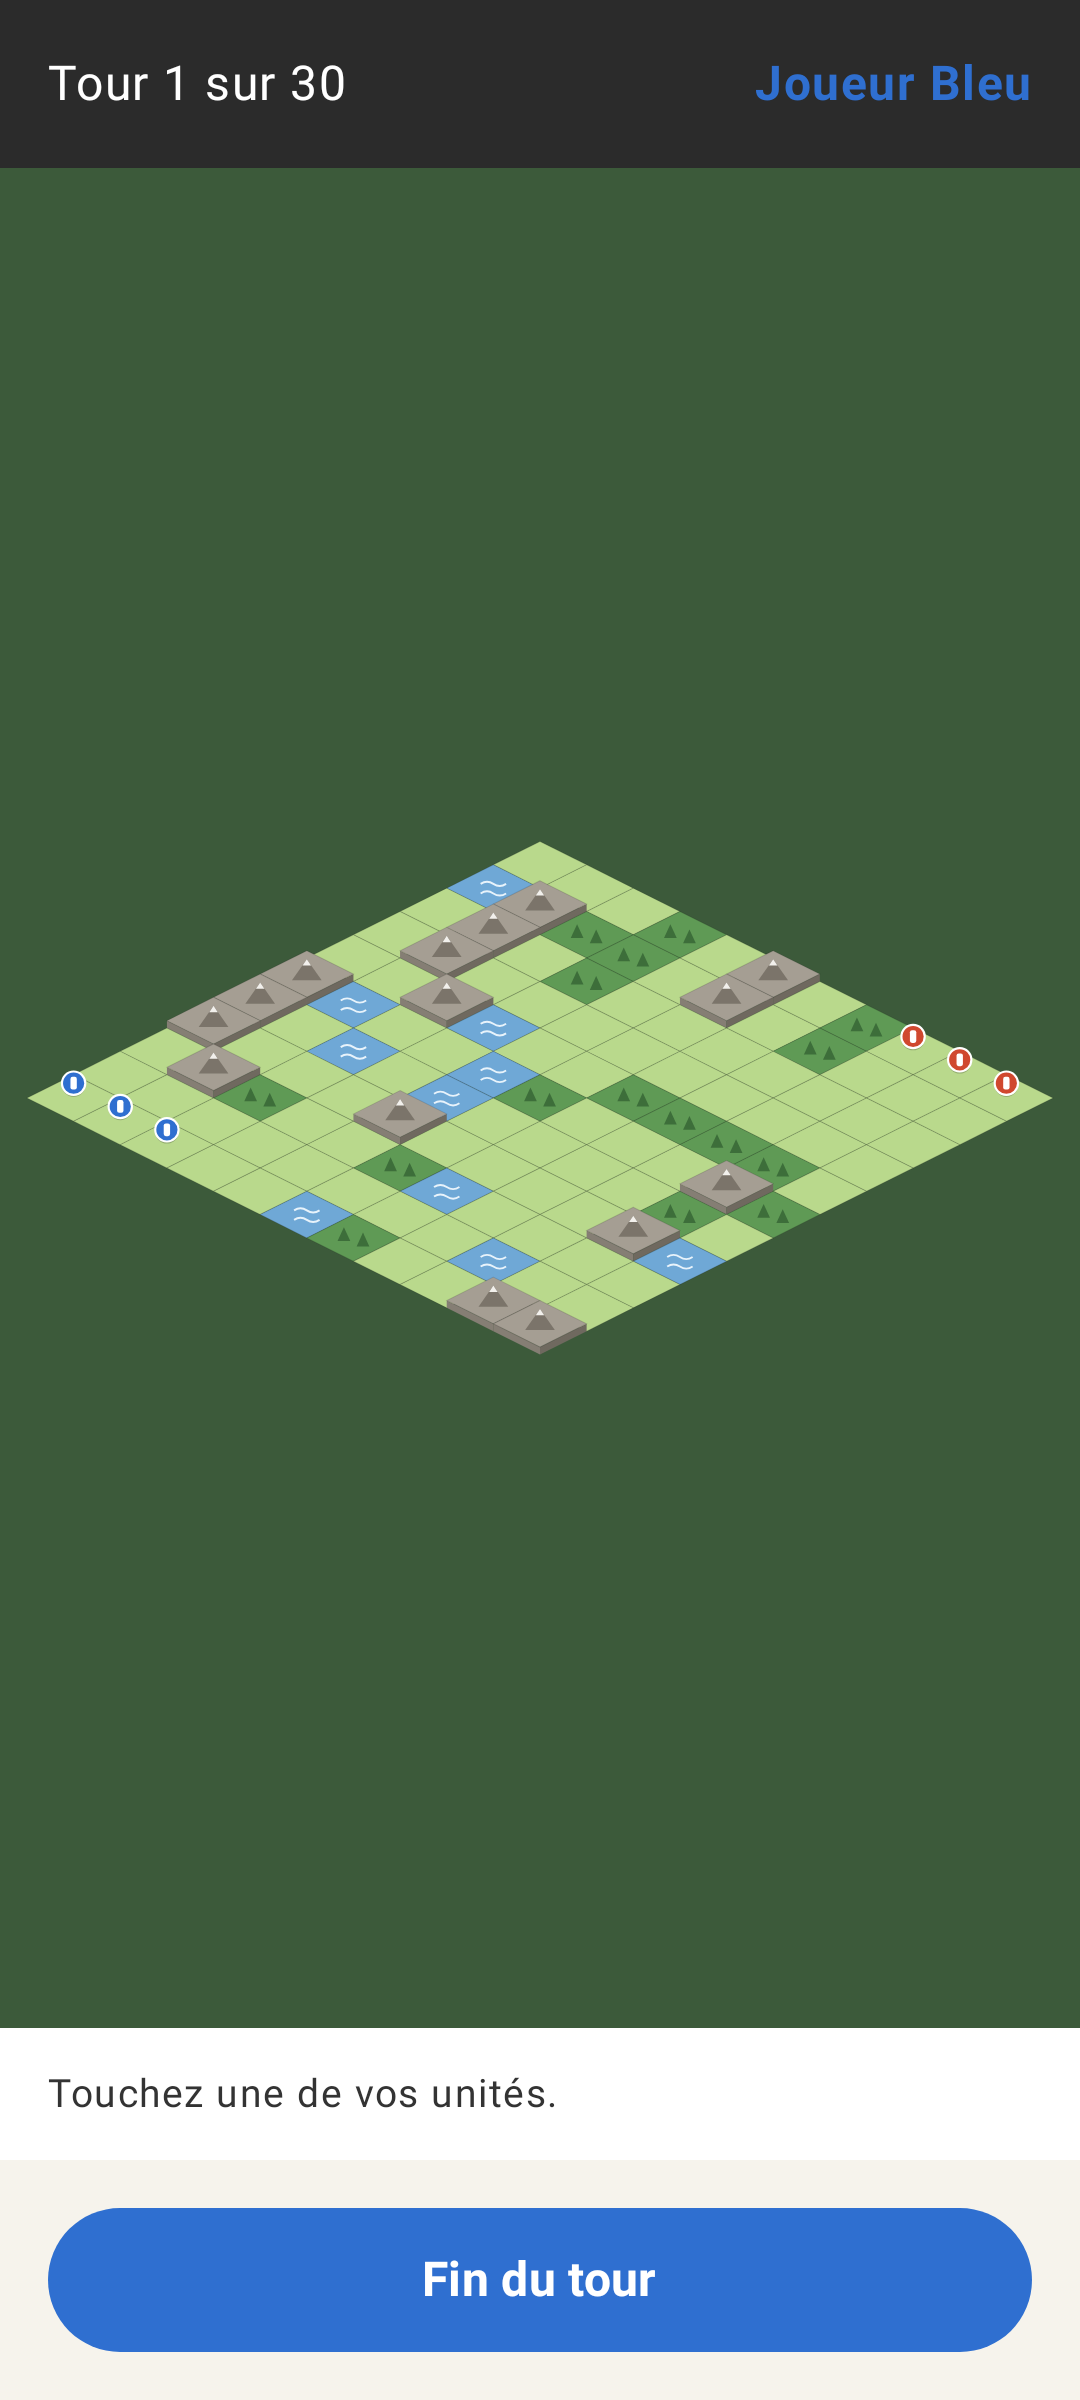
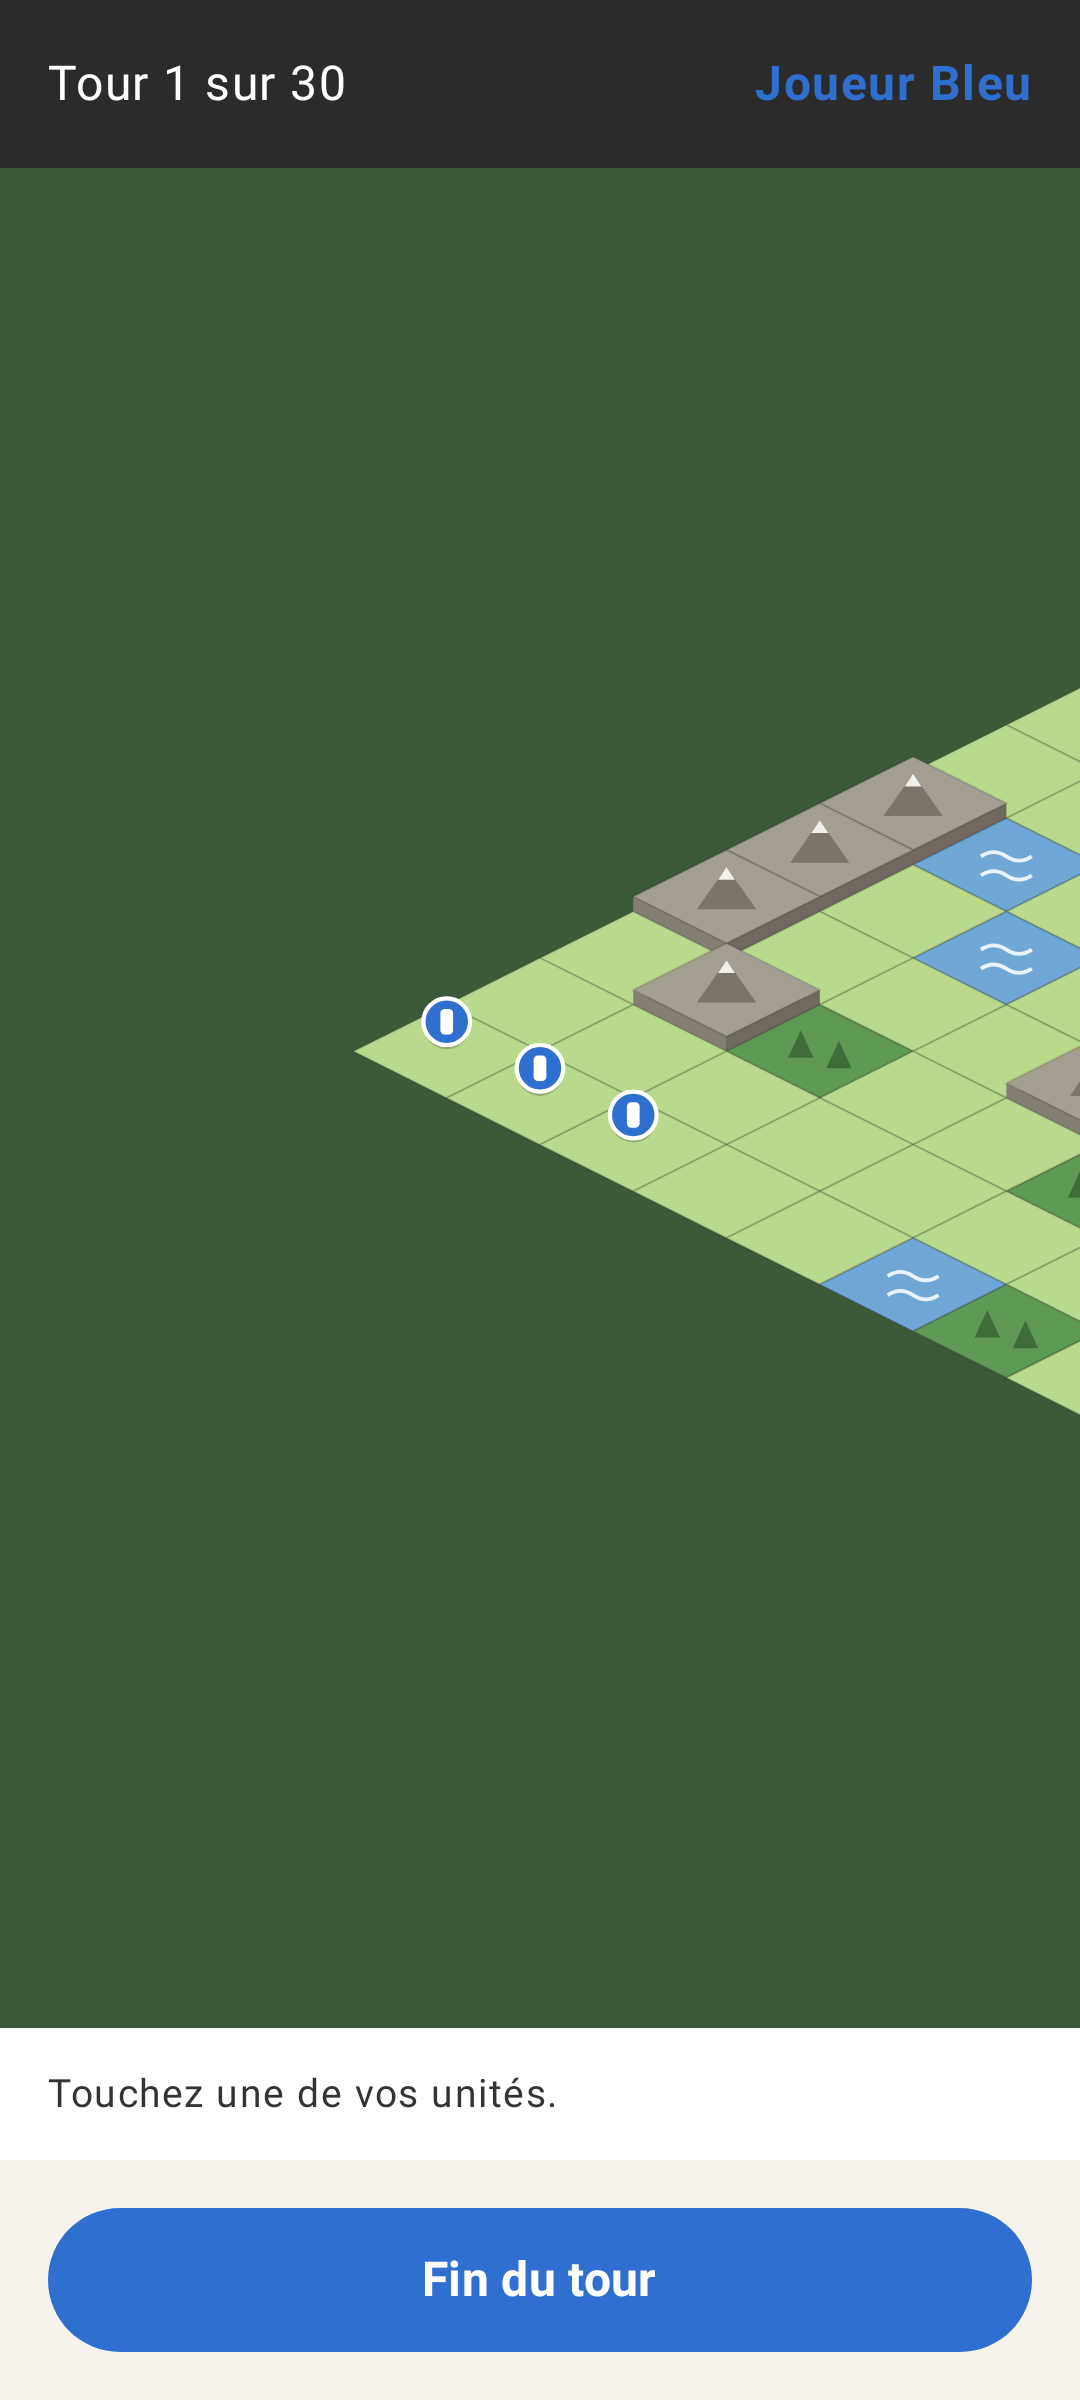
S1 : cadrage au lancement zoomé sur les unités du joueur qui commence (D-20)
Claude-Session: https://claude.ai/code/session_01EL3qoSH2aPunpMotVA9fo3

Changed region(s): [[0.0306, 0.2812, 1.0, 0.5938]]

diff --git a/app/src/main/kotlin/fr/jeu4x/app/plateau/EcranPartie.kt b/app/src/main/kotlin/fr/jeu4x/app/plateau/EcranPartie.kt
@@ -17,6 +17,7 @@ import androidx.compose.material3.Button
 import androidx.compose.material3.ButtonDefaults
 import androidx.compose.material3.Text
 import androidx.compose.runtime.Composable
+import androidx.compose.runtime.LaunchedEffect
 import androidx.compose.runtime.getValue
 import androidx.compose.runtime.mutableFloatStateOf
 import androidx.compose.runtime.mutableStateOf
@@ -35,6 +36,7 @@ import androidx.compose.ui.layout.onSizeChanged
 import androidx.compose.ui.platform.testTag
 import androidx.compose.ui.res.stringResource
 import androidx.compose.ui.text.font.FontWeight
+import androidx.compose.ui.unit.IntSize
 import androidx.compose.ui.unit.dp
 import androidx.compose.ui.unit.sp
 import fr.jeu4x.app.R
@@ -68,7 +70,7 @@ private object Teintes {
 fun couleurJoueur(joueur: Int) = if (joueur == 0) Teintes.bleu else Teintes.rouge
 
 /** État affiché : la partie, l'unité choisie et ses cases atteignables. */
-data class Affichage(val etat: Etat, val choisie: Int? = null, val portee: Set<Int> = emptySet())
+data class Affichage(val etat: Etat, val choisie: Int? = null, val portee: Set<Int> = emptySet(), val numeroPartie: Int = 0)
 
 @Composable
 fun EcranPartie(
@@ -126,24 +128,25 @@ fun EcranPartie(
 private fun Plateau(affichage: Affichage, surToucherCase: (Int) -> Unit) {
     val etat = affichage.etat
     val perspective = remember(etat.taille) { Perspective(etat.taille, demiLargeur = 44f) }
-    var echelle by remember { mutableFloatStateOf(0f) } // 0 : pas encore cadré
-    var decalage by remember { mutableStateOf(Offset.Zero) }
+    // Remis à zéro à chaque nouvelle partie : le cadrage de lancement se refait.
+    var echelle by remember(affichage.numeroPartie) { mutableFloatStateOf(0f) } // 0 : pas encore cadré
+    var decalage by remember(affichage.numeroPartie) { mutableStateOf(Offset.Zero) }
+    var tailleVue by remember { mutableStateOf(IntSize.Zero) }
+
+    // Lancement d'une partie (D-20) : vue zoomée sur les unités du joueur qui commence.
+    LaunchedEffect(affichage.numeroPartie, tailleVue) {
+        if (echelle == 0f && tailleVue.width > 0 && tailleVue.height > 0) {
+            val miennes = etat.unites.filter { it.joueur == etat.joueurCourant }
+                .map { etat.colonne(it.case) to etat.rangee(it.case) }
+            val (e, dx, dy) = perspective.cadrageSur(miennes, tailleVue.width.toFloat(), tailleVue.height.toFloat())
+            echelle = e
+            decalage = Offset(dx, dy)
+        }
+    }
 
     Canvas(
         Modifier.fillMaxSize().background(Teintes.fond).testTag("plateau")
-            .onSizeChanged { taille ->
-                // Premier cadrage : tout le plateau tient dans la vue, centré.
-                if (echelle == 0f && taille.width > 0 && taille.height > 0) {
-                    val l = perspective.limites()
-                    val largeur = l[2] - l[0]
-                    val hauteur = l[3] - l[1]
-                    echelle = minOf(taille.width / largeur, taille.height / hauteur) * 0.95f
-                    decalage = Offset(
-                        taille.width / 2f - (l[0] + largeur / 2f) * echelle,
-                        taille.height / 2f - (l[1] + hauteur / 2f) * echelle,
-                    )
-                }
-            }
+            .onSizeChanged { tailleVue = it }
             .pointerInput(perspective) {
                 detectTransformGestures { centroide, deplacement, zoom, _ ->
                     val nouvelle = (echelle * zoom).coerceIn(0.4f, 4f)

diff --git a/app/src/main/kotlin/fr/jeu4x/app/plateau/PartieViewModel.kt b/app/src/main/kotlin/fr/jeu4x/app/plateau/PartieViewModel.kt
@@ -12,6 +12,7 @@ import fr.jeu4x.app.moteur.Partie
  */
 class PartieViewModel(private val nouvelleGraine: () -> Long = { System.nanoTime() }) : ViewModel() {
     private var partie = Partie(nouvelleGraine())
+    private var numero = 0
     var affichage by mutableStateOf(Affichage(partie.etat()))
         private set
 
@@ -23,26 +24,27 @@ class PartieViewModel(private val nouvelleGraine: () -> Long = { System.nanoTime
         if (choisie != null && case in a.portee) {
             if (partie.deplacer(choisie, case)) {
                 val apres = partie.etat()
-                affichage = Affichage(apres, choisie = case, portee = partie.atteignables(case))
+                affichage = Affichage(apres, choisie = case, portee = partie.atteignables(case), numeroPartie = numero)
             }
             return
         }
         val u = etat.uniteSur(case)
         affichage = if (u != null && u.joueur == etat.joueurCourant) {
-            Affichage(etat, choisie = case, portee = partie.atteignables(case))
+            Affichage(etat, choisie = case, portee = partie.atteignables(case), numeroPartie = numero)
         } else {
-            Affichage(etat)
+            Affichage(etat, numeroPartie = numero)
         }
     }
 
     fun finDuTour() {
-        if (partie.finDuTour()) affichage = Affichage(partie.etat())
+        if (partie.finDuTour()) affichage = Affichage(partie.etat(), numeroPartie = numero)
     }
 
     fun nouvellePartie() {
         partie.fermer()
         partie = Partie(nouvelleGraine())
-        affichage = Affichage(partie.etat())
+        numero++
+        affichage = Affichage(partie.etat(), numeroPartie = numero)
     }
 
     override fun onCleared() {

diff --git a/app/src/main/kotlin/fr/jeu4x/app/plateau/Perspective.kt b/app/src/main/kotlin/fr/jeu4x/app/plateau/Perspective.kt
@@ -46,4 +46,23 @@ class Perspective(val taille: Int, val demiLargeur: Float, val demiHauteur: Floa
         (taille - 1) * demiLargeur + demiLargeur,
         2 * (taille - 1) * demiHauteur + 2 * demiHauteur,
     )
+
+    /** Échelle à laquelle tout le plateau tient dans une vue de `largeur` × `hauteur`. */
+    fun echelleEnsemble(largeur: Float, hauteur: Float): Float {
+        val l = limites()
+        return minOf(largeur / (l[2] - l[0]), hauteur / (l[3] - l[1])) * 0.95f
+    }
+
+    /**
+     * Cadrage au lancement d'une partie (D-20) : cases deux fois plus grosses que la vue
+     * d'ensemble, centrées sur les cases données (les unités du joueur qui commence).
+     * Rend l'échelle et le décalage (x, y) à appliquer au repère plateau.
+     */
+    fun cadrageSur(cases: List<Pair<Int, Int>>, largeur: Float, hauteur: Float, grossissement: Float = 2f): Triple<Float, Float, Float> {
+        val echelle = echelleEnsemble(largeur, hauteur) * grossissement
+        val centres = if (cases.isEmpty()) listOf(centre((taille - 1) / 2, (taille - 1) / 2)) else cases.map { (x, y) -> centre(x, y) }
+        val cx = centres.map { it.first }.average().toFloat()
+        val cy = centres.map { it.second }.average().toFloat()
+        return Triple(echelle, largeur / 2f - cx * echelle, hauteur / 2f - cy * echelle)
+    }
 }

diff --git a/app/src/test/kotlin/fr/jeu4x/app/plateau/PerspectiveTest.kt b/app/src/test/kotlin/fr/jeu4x/app/plateau/PerspectiveTest.kt
@@ -39,3 +39,18 @@ class PerspectiveTest {
         assertEquals(profondeurs.sorted(), profondeurs)
     }
 }
+
+class CadrageTest {
+    private val p = Perspective(taille = 11, demiLargeur = 44f)
+
+    @Test
+    fun `le lancement grossit deux fois et centre les unites`() {
+        val unites = listOf(0 to 0, 1 to 0, 2 to 0)
+        val (e, dx, dy) = p.cadrageSur(unites, 1080f, 1700f)
+        assertEquals(p.echelleEnsemble(1080f, 1700f) * 2f, e, 1e-4f)
+        // Le centre moyen des unités tombe au milieu de la vue.
+        val (cx, cy) = p.centre(1, 0)
+        assertEquals(540f, cx * e + dx, 1f)
+        assertEquals(850f, cy * e + dy, 1f)
+    }
+}

diff --git a/app/src/test/kotlin/fr/jeu4x/app/capture/CapturesTest.kt b/app/src/test/kotlin/fr/jeu4x/app/capture/CapturesTest.kt
@@ -43,6 +43,10 @@ class CapturesTest {
         vm.toucherCase(vm.affichage.etat.unites.first { it.joueur == 0 }.case)
         compose.waitForIdle()
         capturer("plateau-choix")
+        // Tour du joueur Rouge : la vue ne bouge pas (D-20 ne dit rien du changement de tour).
+        vm.finDuTour()
+        compose.waitForIdle()
+        capturer("plateau-tour-rouge")
     }
 
     private fun capturer(nom: String) {

diff --git a/docs/environnement/JOURNAL.md b/docs/environnement/JOURNAL.md
@@ -2,6 +2,18 @@
 
 > Entrée la plus récente en haut. On ne modifie ni ne supprime une entrée passée.
 
+## 2026-11-27 · Cadrage au lancement zoomé sur ses unités (D-20)
+
+- **Auteur** : Claude, session S1
+- **Branche et commit** : `s1-environnement`
+- **Objectif** : réponse de l'utilisateur sur le cadrage : b), zoomé sur ses unités (D-20).
+- **Réalisé** : `Perspective.cadrageSur` (échelle = 2 × la vue d'ensemble, centre = moyenne des unités du joueur qui commence) ; appliqué au lancement et à chaque « Nouvelle partie » (`Affichage.numeroPartie`). Changement de tour inchangé, comme demandé. Captures : `docs/environnement/captures/plateau.png` (lancement), `plateau-choix.png`, `plateau-tour-rouge.png`.
+- **Décisions** : aucune nouvelle.
+- **Vérifications** : `:app:testDebugUnitTest` 30 verts (dont `CadrageTest`) ; captures regardées : au lancement les trois unités bleues sont au centre, cases deux fois plus grandes.
+- **Non vérifié sur téléphone** : confort du zoom de départ, pincer pour dézoomer.
+- **Problèmes et dette** : au tour du Rouge, la vue reste sur les unités bleues ; les unités rouges sont hors de l'écran (en haut à droite) : il doit faire glisser la vue pour les trouver. Solution proposée, non codée : au début de chaque tour, faire glisser la vue en douceur vers les unités du joueur dont c'est le tour, sans changer le zoom.
+- **Prochaine étape** : essai à l'émulateur, rapport.
+
 ## 2026-11-27 · Essai 0.1.7 : plateau vert à l'émulateur
 
 - **Auteur** : Claude, session S1
